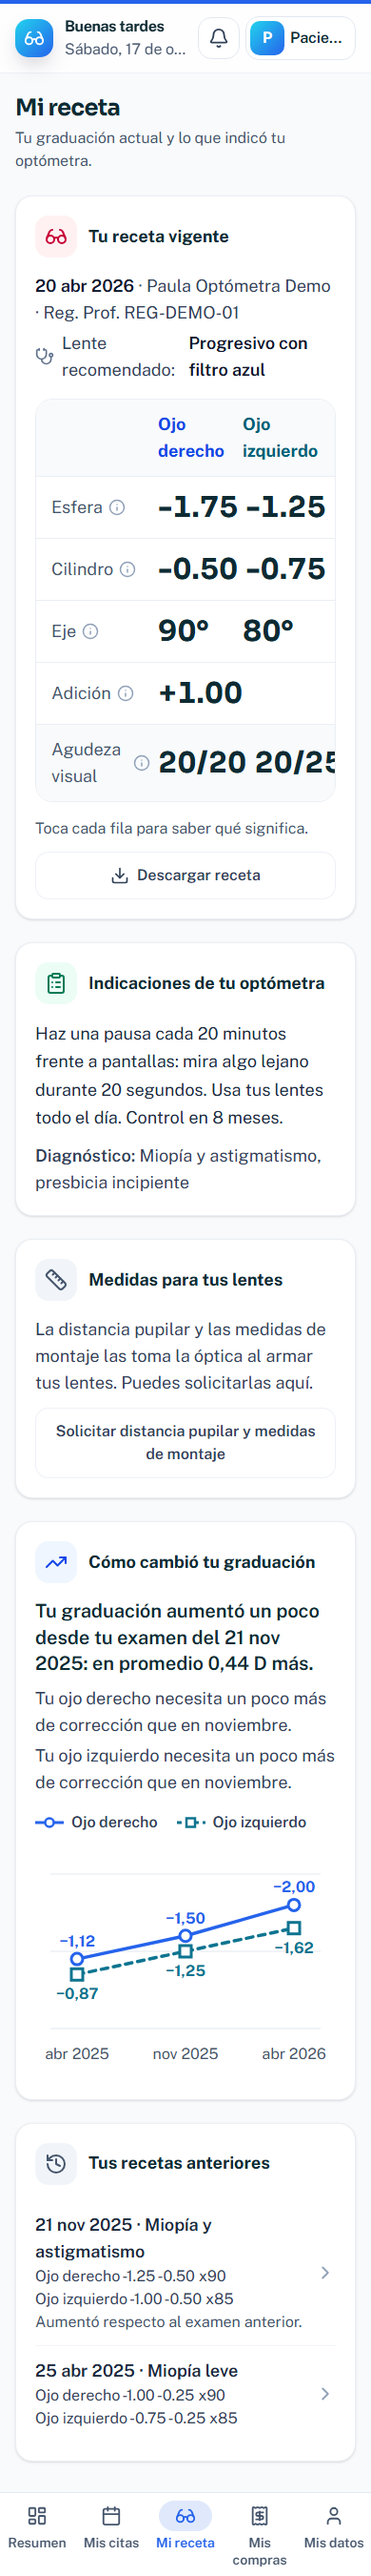
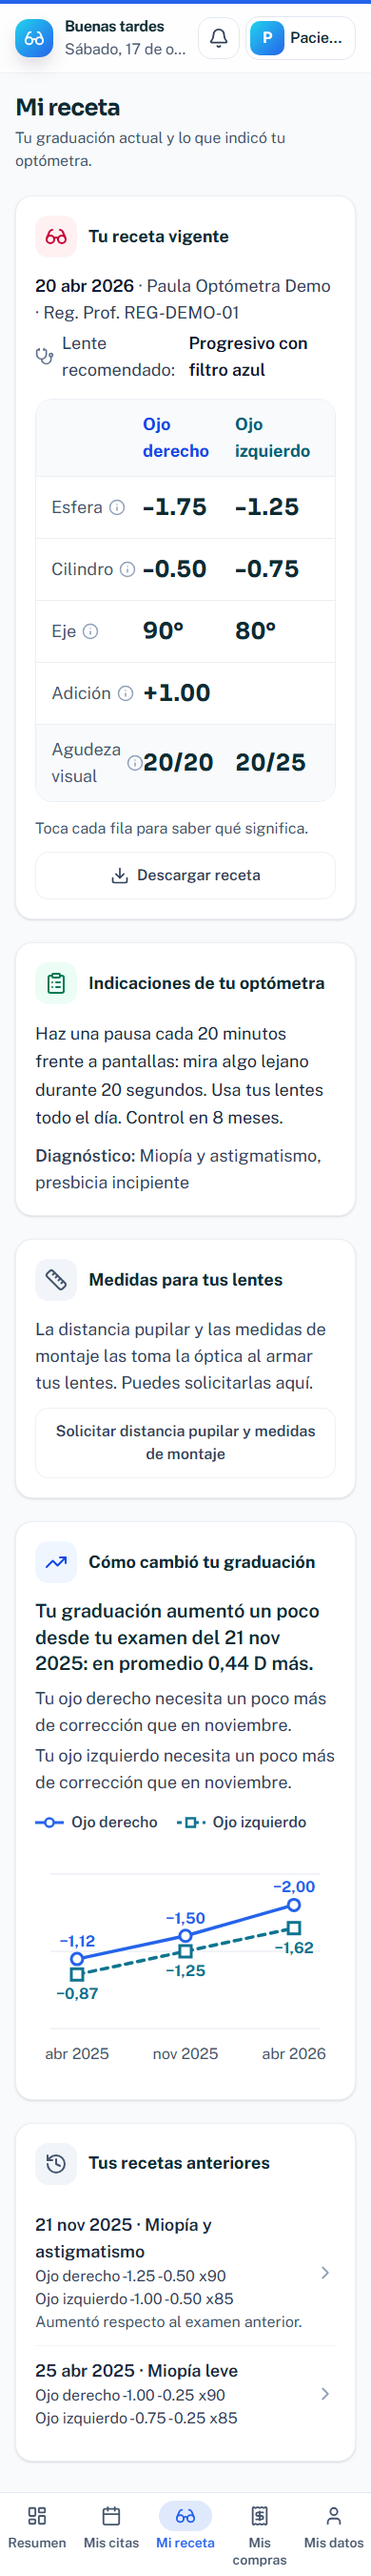
feat(portal): ajustes tras revisar las capturas (tabla de la receta en celular, privacidad en columna, bienvenida con la óptica al lado), prueba de diseño más estricta y registro de la ronda 3

Changed region(s): [[0.3692, 0.1555, 0.8923, 0.311]]

diff --git a/src/componentes/portal/MiRecetaPortal.jsx b/src/componentes/portal/MiRecetaPortal.jsx
@@ -25,7 +25,7 @@ function TablaReceta({ receta }) {
   ].filter(([clave, , od]) => clave !== "adicion" || od)
   return (
     <div role="table" aria-label="Tu receta" className="overflow-hidden rounded-2xl border border-slate-200/70">
-      <div role="row" className="grid grid-cols-[minmax(6.5rem,1fr)_1fr_1fr] items-end gap-2 bg-slate-50 px-4 py-3 sm:px-5">
+      <div role="row" className="grid grid-cols-[minmax(5.5rem,0.9fr)_1fr_1fr] items-end gap-2 bg-slate-50 px-4 py-3 sm:px-5">
         <span role="columnheader"><span className="sr-only">Dato</span></span>
         <span role="columnheader" className="text-lg font-bold text-blue-700">Ojo derecho</span>
         <span role="columnheader" className="text-lg font-bold text-cyan-800">Ojo izquierdo</span>
@@ -33,11 +33,11 @@ function TablaReceta({ receta }) {
       {filas.map(([clave, etiqueta, od, oi]) => (
         <div key={clave} role="row" className="border-t border-slate-200/70">
           <button type="button" onClick={() => setAbierta((a) => (a === clave ? "" : clave))} aria-expanded={abierta === clave} aria-label={`${etiqueta}: ${clave === "adicion" ? od : `ojo derecho ${od || "sin dato"}, ojo izquierdo ${oi || "sin dato"}`}. Toca para saber qué significa`}
-            title={AYUDA_RECETA[clave]} className="grid min-h-16 w-full grid-cols-[minmax(6.5rem,1fr)_1fr_1fr] items-center gap-2 px-4 py-3 text-left transition-colors hover:bg-slate-50 cursor-pointer sm:px-5">
+            title={AYUDA_RECETA[clave]} className="grid min-h-16 w-full grid-cols-[minmax(5.5rem,0.9fr)_1fr_1fr] items-center gap-2 px-4 py-3 text-left transition-colors hover:bg-slate-50 cursor-pointer sm:px-5">
             <span role="rowheader" className="flex items-center gap-1.5 text-lg text-slate-600">{etiqueta}<Info size={18} className="shrink-0 text-slate-400" aria-hidden="true" /></span>
             {clave === "adicion"
-              ? <span role="cell" className="col-span-2 font-heading text-3xl font-bold tabular-nums" style={{ color: INK }}>{od}</span>
-              : <><span role="cell" className="font-heading text-3xl font-bold tabular-nums" style={{ color: INK }}>{od || "—"}</span><span role="cell" className="font-heading text-3xl font-bold tabular-nums" style={{ color: INK }}>{oi || "—"}</span></>}
+              ? <span role="cell" className="col-span-2 font-heading text-2xl font-bold tabular-nums sm:text-3xl" style={{ color: INK }}>{od}</span>
+              : <><span role="cell" className="font-heading text-2xl font-bold tabular-nums sm:text-3xl" style={{ color: INK }}>{od || "—"}</span><span role="cell" className="font-heading text-2xl font-bold tabular-nums sm:text-3xl" style={{ color: INK }}>{oi || "—"}</span></>}
           </button>
           {abierta === clave && <p role="note" className="bg-slate-50 px-4 py-3 text-lg text-slate-700 sm:px-5">{AYUDA_RECETA[clave]}</p>}
         </div>

diff --git a/src/componentes/portal/MisDatosPortal.jsx b/src/componentes/portal/MisDatosPortal.jsx
@@ -63,7 +63,7 @@ export default function MisDatosPortal({ usuario, nombreOptica, citas, consultas
     <div className="space-y-5">
       <TituloPagina subtitulo="Tus datos personales y de contacto.">Mis datos</TituloPagina>
 
-      <div className="pt-fila pt-fila--7-5">
+      <div className="pt-fila pt-fila--7-5 pt-fila--arriba">
       <div className="rounded-2xl border border-slate-200/60 bg-white p-5 shadow-sm sm:p-6">
         <div className="flex items-center gap-4 border-b border-slate-100 pb-5">
           <div className="grid h-16 w-16 shrink-0 place-items-center rounded-2xl text-2xl font-bold text-white" style={{ background: "var(--portal-grad)", color: "var(--portal-texto-boton)" }}>{primerNombre[0]?.toUpperCase()}</div>
@@ -95,22 +95,22 @@ export default function MisDatosPortal({ usuario, nombreOptica, citas, consultas
           </div>
         )}
 
-        <div className="mt-4 flex flex-col items-start justify-between gap-3 border-t border-slate-100 pt-5 sm:flex-row sm:items-center">
+        <div className="mt-4 flex flex-col items-start gap-3 border-t border-slate-100 pt-5">
           <div>
             <p className="text-lg font-semibold" style={{ color: INK }}>Una copia de tus datos</p>
             <p className="text-base text-slate-600">Un archivo con tus datos personales, tus citas y tu historial clínico, incluidos tus antecedentes y alergias.</p>
           </div>
-          <button type="button" onClick={descargarMisDatos} disabled={descargando} className={BOTON_SECUNDARIO + " w-full shrink-0 sm:w-auto"}>
+          <button type="button" onClick={descargarMisDatos} disabled={descargando} className={BOTON_SECUNDARIO + " w-full"}>
             <Download size={20} aria-hidden="true" /> {descargando ? "Preparando…" : "Descargar mis datos"}
           </button>
         </div>
 
-        <div className="mt-4 flex flex-col items-start justify-between gap-3 border-t border-slate-100 pt-5 sm:flex-row sm:items-center">
+        <div className="mt-4 flex flex-col items-start gap-3 border-t border-slate-100 pt-5">
           <div>
             <p className="text-lg font-semibold text-red-600">Eliminar mi cuenta</p>
             <p className="text-base text-slate-600">Le pedimos a {nombreOptica} que elimine tu cuenta y tus datos.</p>
           </div>
-          <button type="button" onClick={() => { setMotivoEliminar(""); setSolicitudEliminarEnviada(false); setErrorPrivacidad(""); setModalEliminarAbierto(true) }} className={BOTON_PELIGRO + " w-full shrink-0 sm:w-auto"}>
+          <button type="button" onClick={() => { setMotivoEliminar(""); setSolicitudEliminarEnviada(false); setErrorPrivacidad(""); setModalEliminarAbierto(true) }} className={BOTON_PELIGRO + " w-full"}>
             <ShieldAlert size={20} aria-hidden="true" /> Solicitar eliminación
           </button>
         </div>

diff --git a/src/componentes/portal/ResumenPortal.jsx b/src/componentes/portal/ResumenPortal.jsx
@@ -157,6 +157,7 @@ export default function ResumenPortal({ cargando, esNuevo, proximaCita, detalleC
     return (
       <div className="space-y-6">
         <TituloPagina>Resumen</TituloPagina>
+        <div className={"pt-fila " + (hayContacto ? "pt-fila--8-4" : "pt-fila--solo")}>
         <section aria-label="Bienvenida" className="relative overflow-hidden rounded-2xl p-6 text-white shadow-lg sm:p-9" style={{ background: "var(--portal-hero)" }}>
           <span aria-hidden="true" className="pointer-events-none absolute -right-16 -top-16 h-64 w-64 rounded-full bg-white/10" />
           <p className="flex items-center gap-2 text-lg font-semibold text-white/85"><Sparkles size={22} aria-hidden="true" /> Bienvenido</p>
@@ -164,6 +165,8 @@ export default function ResumenPortal({ cargando, esNuevo, proximaCita, detalleC
           <p className="mt-3 max-w-xl text-lg text-white/90">Este es tu portal: aquí vas a ver tus citas, tu receta, el estado de tus lentes y lo que debes. Empieza agendando tu primera cita.</p>
           <button type="button" onClick={() => onAgendar()} className="mt-6 inline-flex min-h-12 w-full items-center justify-center gap-2 rounded-xl bg-white px-6 py-3 text-base font-semibold text-slate-900 transition-colors hover:bg-slate-100 cursor-pointer sm:w-auto"><CalendarPlus size={22} aria-hidden="true" /> Agendar mi primera cita</button>
         </section>
+        {hayContacto && <TarjetaOptica contacto={contacto} />}
+        </div>
         <ol aria-label="Cómo funciona" className="pt-fila pt-fila--auto">
           {PASOS_NUEVO.map(([Icono, tono, titulo, texto], i) => (
             <li key={titulo} className="rounded-2xl border border-slate-200/70 bg-white p-5 shadow-sm sm:p-6">
@@ -173,7 +176,6 @@ export default function ResumenPortal({ cargando, esNuevo, proximaCita, detalleC
             </li>
           ))}
         </ol>
-        {hayContacto && <div className="pt-fila pt-fila--dos"><TarjetaOptica contacto={contacto} /></div>}
       </div>
     )
   }

diff --git a/e2e/portal-diseno.spec.js b/e2e/portal-diseno.spec.js
@@ -48,6 +48,22 @@ const revisar = (page) => page.evaluate(() => {
     const r = e.getBoundingClientRect(), z = zona.getBoundingClientRect()
     if (r.right > z.right + 1 || r.left < z.left - 1) malos.push(`se sale de la zona de contenido: ${e.textContent.trim().slice(0, 30)}`)
   }
+  // 4b. Nada queda recortado dentro de un contenedor con overflow oculto (salvo los textos con puntos suspensivos a propósito).
+  for (const e of zona.querySelectorAll('*')) {
+    if (!visible(e)) continue
+    const cs = getComputedStyle(e)
+    if ((cs.overflowX === 'hidden' || cs.overflowX === 'clip') && cs.textOverflow !== 'ellipsis' && e.clientWidth > 2 && e.scrollWidth > e.clientWidth + 1) malos.push(`recortado dentro de su caja (${e.scrollWidth} > ${e.clientWidth}): ${e.textContent.trim().slice(0, 30)}`)
+  }
+  // 5. Texto de 16 px o más y todo lo que se toca de 44 px o más.
+  for (const e of zona.querySelectorAll('*')) {
+    if (!visible(e)) continue
+    if ([...e.childNodes].some((n) => n.nodeType === 3 && n.textContent.trim()) && parseFloat(getComputedStyle(e).fontSize) < 16) malos.push('texto de ' + parseFloat(getComputedStyle(e).fontSize) + ' px: ' + e.textContent.trim().slice(0, 30))
+  }
+  for (const b of zona.querySelectorAll('button, a[href]')) {
+    if (!visible(b)) continue
+    const r = b.getBoundingClientRect()
+    if (r.height < 43.5 || r.width < 43.5) malos.push('toque de ' + Math.round(r.width) + '×' + Math.round(r.height) + ': ' + (b.getAttribute('aria-label') || b.textContent.trim()).slice(0, 30))
+  }
   return [...new Set(malos)]
 })
 

diff --git a/e2e/portal-recorrido.spec.js b/e2e/portal-recorrido.spec.js
@@ -64,7 +64,7 @@ for (const [nombre, ancho, alto] of TAMANOS) {
         await ventana.getByRole('button', { name: 'Continuar' }).click()
         await page.getByRole('dialog').last().getByRole('button', { name: /Confirmar/ }).click()
         await expect(page.getByRole('status').filter({ hasText: 'quedó agendada' })).toBeVisible({ timeout: 20_000 })
-        const proximas = page.getByRole('region', { name: 'Lo próximo' })
+        const proximas = page.getByRole('region', { name: 'Tu próxima cita' })
         await expect(proximas.getByRole('button', { name: 'Reagendar' })).toBeVisible()
         const cita = (await q("select id, codigo, fecha::text, hora, origen from citas where paciente_id = $1 and created_at >= $2 order by created_at desc limit 1", [paciente.id, inicio]))[0]
         expect(cita, 'la cita quedó guardada').toBeTruthy()
